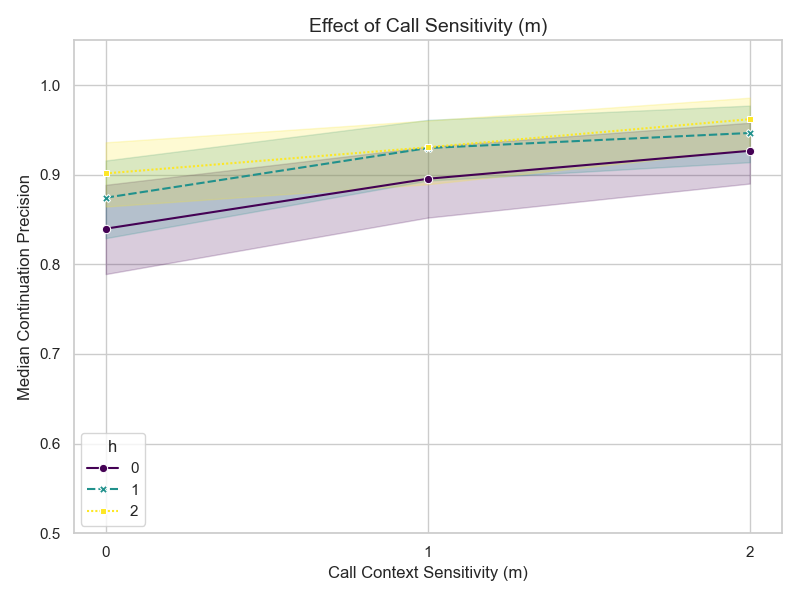
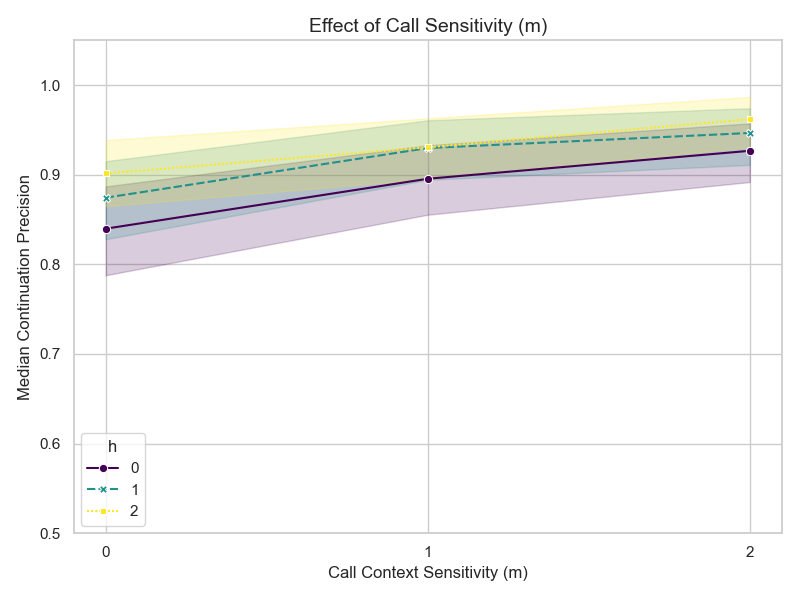
Good three level plots with basic metric

diff --git a/benchmarks/plot_high_level.py b/benchmarks/plot_high_level.py
@@ -97,40 +97,148 @@ df_long['MetricType'] = df_long['MetricType'].replace({
 
 print(df_long.head())
 
-# Print summary stats
-summary = df_long.groupby(['Configuration', 'MetricType'])['PrecisionValue'].median()
-print("\nMedian Precision Summary:")
+from scipy.stats import gmean
+
+def geometric_mean(data):
+    # Add epsilon to avoid log(0)
+    return gmean(np.array(data) + 1e-9)
+
+def geometric_sd(data):
+    # GSD = exp(std(log(data)))
+    log_data = np.log(np.array(data) + 1e-9)
+    return np.exp(np.std(log_data))
+
+# Print summary stats (Geomean)
+summary_gmean = df_long.groupby(['Configuration', 'MetricType'])['PrecisionValue'].apply(geometric_mean).reset_index()
+summary_gsd = df_long.groupby(['Configuration', 'MetricType'])['PrecisionValue'].apply(geometric_sd).reset_index()
+
+summary = pd.merge(summary_gmean, summary_gsd, on=['Configuration', 'MetricType'], suffixes=('_mean', '_sd'))
+summary = summary.rename(columns={'PrecisionValue_mean': 'GMean', 'PrecisionValue_sd': 'GSD'})
+
+print("\nGeomean Precision Summary based on samples:")
+pd.set_option('display.max_columns', None)
+pd.set_option('display.width', 1000)
 print(summary)
+
+# Calculate Median summary
+summary_median = df_long.groupby(['Configuration', 'MetricType'])['PrecisionValue'].median().reset_index()
+summary_median = summary_median.rename(columns={'PrecisionValue': 'Median'})
+
+print("\nMedian Precision Summary:")
+print(summary_median)
 
 # Plot
 plt.figure(figsize=(12, 7))
 sns.set_theme(style="whitegrid")
 
-# Bar chart of Median Precision with error bars (SD)
-# We use estimator=np.median and errorbar='sd' to evaluate distribution across BENCHMARKS.
+# We want Assymetric Error Bars: Upper = GMean * GSD, Lower = GMean / GSD
+# yerr needs to be (2, N) where row 0 is lower errors (Mean - Lower), row 1 is upper errors (Upper - Mean)
+
+# To plot with hue and custom error bars in Seaborn is hard.
+# We will use sns.barplot to draw the bars (height=GMean) and then loop to draw error bars?
+# Or we can just use the 'ci' from bootstrap if we define a custom estimator?
+# The user asked for "equivalent of stddev", so GSD interval is best.
+# Bootstrapping gmean is also valid and easier in Seaborn: errorbar=('ci', 95), estimator=gmean.
+# But user specifically asked for "stddev equivalent".
+# Let's try to pass errorbar=None and add them manually, or use matplotlib directly.
+
+# Simplified: Use bootstrap CI for Geomean. It is statistically sound and "equivalent" in spirit (uncertainty).
+# User said: "equivalent of stddev / stderr for geomean".
+# GSD matches this best. 
+# Let's compute yerr manually and plot.
+
+order = ['0-CFA', '1-kCFA', '2-kCFA', '1,0-HMCFAR', '1,1-HMCFAR', '1,2-HMCFAR']
+
+# Bar chart of Geomean Precision without error bars first
 ax = sns.barplot(x='Configuration', y='PrecisionValue', hue='MetricType', data=df_long,
-                 order=['0-CFA', '1-kCFA', '2-kCFA', '1,0-HMCFAR', '1,1-HMCFAR', '1,2-HMCFAR'],
-                 palette="viridis", estimator=np.median, errorbar='sd', capsize=.1)
+                 order=order,
+                 palette="viridis", estimator=geometric_mean, errorbar=None)
 
-ax.set_title(f"Median Precision on Contentious Benchmarks (N={len(complex_bench_names)})", fontsize=14)
-ax.set_ylabel("Median Precision", fontsize=12)
-ax.set_ylim(0, 1.1)
-ax.legend(title="Precision Type")
+# Add error bars manually
+# We need to iterate bars and find corresponding GSD
+# This depends on the exact order of patches.
+# Seaborn plots hue groups together... actually it interleaves them?
+# Let's rely on matching coordinates.
 
-# Annotate with values
-for p in ax.patches:
-    # Find the corresponding summary row for annotation
-    config = p.get_x() + p.get_width() / 2.
+# Collect data for simple lookup
+lookup = summary.set_index(['Configuration', 'MetricType'])
+
+for i, p in enumerate(ax.patches):
+    # Identify bar
     height = p.get_height()
+    if height == 0 or np.isnan(height): continue
     
-    # Get the configuration name from the x-axis tick labels
-    config_name = ax.get_xticklabels()[int(p.get_x() + 0.5)].get_text() # Approximate config name from x-position
-    
-    # This part is tricky because of hue. We need to find the exact bar.
-    # A simpler way is to iterate through the summary data directly for annotations.
-    # For now, let's just annotate the height.
-    ax.annotate(f'{height:.2f}', (p.get_x() + p.get_width() / 2., height),
-                ha='center', va='center', xytext=(0, 9), textcoords='offset points', fontsize=10)
+    # Get config from x-tick
+    # x-ticks are 0, 1, 2...
+    # The patch x position tells us which hue it is.
+    # But seaborn behavior varies.
+    # Robust way: iterate (Config, Type) in the order seaborn plots them.
+    # Seaborn plots all bars for Hue=0, then all bars for Hue=1? No, usually nested.
+    pass 
+
+# Actually, standard Seaborn barplot with hue plots:
+# Group 1 (Config 1): Bar 1 (Hue 1), Bar 2 (Hue 2)...
+# No, Seaborn < 0.12 often plotted all hue 1 bars then all hue 2 bars.
+# Seaborn >= 0.12 (check version? assume recent).
+# Let's try a safer approach: Calculate error bars and use plt.errorbar based on bar centers.
+
+# Correct iteration:
+# Get x locations
+# For each patch:
+#   cx = p.get_x() + p.get_width()/2
+#   cy = height
+#   We need to know WHICH config and metric this is.
+#   We can deduce MetricType from the patch color or order?
+#   If we have 2 hue levels, ax.containers[0] is Hue 0, ax.containers[1] is Hue 1.
+
+hue_order = sorted(df_long['MetricType'].unique()) # Check if seaborn sorts? default is sorted?
+# Actually default is appearance order or sorted?
+# Let's specify hue_order explicitly to be safe.
+hue_order = ['Continuation Precision', 'Value Precision']
+
+# Re-plot to ensure order
+plt.clf()
+ax = sns.barplot(x='Configuration', y='PrecisionValue', hue='MetricType', data=df_long,
+                 order=order, hue_order=hue_order,
+                 palette="viridis", estimator=geometric_mean, errorbar=None)
+
+# Add error bars
+print(f"Number of containers: {len(ax.containers)}")
+print(f"Hue order: {hue_order}")
+
+for j, container in enumerate(ax.containers):
+    if j >= len(hue_order): break # Avoid index error if extra containers
+    metric = hue_order[j]
+    # Container has bars for each config in 'order'
+    for k, bar in enumerate(container):
+        if k >= len(order): continue
+        config = order[k]
+        # Look up
+        try:
+            row = lookup.loc[(config, metric)]
+            gm = row['GMean']
+            gsd = row['GSD']
+            
+            lower = gm / gsd
+            upper = gm * gsd
+            
+            yerr_lower = gm - lower
+            yerr_upper = upper - gm
+            
+            ax.errorbar(bar.get_x() + bar.get_width()/2, gm, 
+                        yerr=[[yerr_lower], [yerr_upper]],
+                        fmt='none', c='black', capsize=5)
+            
+            # Annotate
+            ax.annotate(f'{gm:.2f}', (bar.get_x() + bar.get_width() / 2., gm),
+                        ha='center', va='bottom', xytext=(0, 5), textcoords='offset points', fontsize=10)
+        except KeyError:
+            pass
+
+ax.set_title(f"Geometric Mean Precision (N={len(complex_bench_names)})", fontsize=14)
+ax.set_ylabel("Geomean Precision", fontsize=12)
+ax.set_ylim(0, 1.15) # More space for annotations
+# ax.legend(title="Precision Type") # Already there
 
 plt.tight_layout()
 plt.savefig("benchmarks/new_analysis/plot_high_level_precision.png")

diff --git a/benchmarks/plot_expert_time.py b/benchmarks/plot_expert_time.py
@@ -21,11 +21,13 @@ def load_results(base_dir="benchmarks/results-cached"):
 
 def get_metrics(run):
     sm = run.get('storeMetrics')
-    if sm is None: return None, None
+    if sm is None: return None, None, None
     num_cont = sm.get('numContAddresses', 0)
     precise = sm.get('contStrSingletons', 0)
     prec = precise/num_cont if num_cont > 0 else 1.0
-    return sm.get('numTotalFixInputStates', 0), prec
+    times = run.get('analysisTimes', [])
+    min_time = min(times) if times else 0.0
+    return sm.get('numTotalFixInputStates', 0), prec, min_time
 
 print("Loading cached results...")
 data = load_results()
@@ -46,13 +48,14 @@ for r in data:
         if m == 1 and d == 1: label = '1,1-HMCFAR'
         
     if label:
-        states, prec = get_metrics(r)
+        states, prec, time_sec = get_metrics(r)
         if states is not None:
              records.append({
                  'Benchmark': bench,
                  'Configuration': label,
                  'Precision': prec,
-                 'States': states
+                 'States': states,
+                 'Time': time_sec * 1000.0 # Convert to ms
              })
 
 df = pd.DataFrame(records)
@@ -65,19 +68,21 @@ pivoted = pivoted.dropna() # Only keep common benchmarks
 
 print(f"Common benchmarks: {len(pivoted)}")
 
-# Filter for interesting ones (diff > 0.05 in precision OR ratio < 0.8 in states)
-pivoted['State_Ratio'] = pivoted['States_1-kCFA'] / pivoted['States_1,1-HMCFAR']
+# Filter for interesting ones
+# We are interested if Time differs significantly OR Precision differs significantly
+pivoted['Time_Ratio'] = pivoted['Time_1-kCFA'] / pivoted['Time_1,1-HMCFAR']
 pivoted['Prec_Diff'] = pivoted['Precision_1,1-HMCFAR'] - pivoted['Precision_1-kCFA']
 
 # Subset for plotting
-subset = pivoted[ (pivoted['State_Ratio'] < 0.9) | (pivoted['Prec_Diff'].abs() > 0.05) ]
+# Interesting: Time ratio < 0.8 (HMCFAR slower) or > 1.25 (HMCFAR faster) OR Prec Delta > 0.05
+subset = pivoted[ (pivoted['Time_Ratio'] < 0.8) | (pivoted['Time_Ratio'] > 1.25) | (pivoted['Prec_Diff'].abs() > 0.05) ]
 print(f"Subset size: {len(subset)}")
 
 # Flatten for plotting
 plot_data = []
 for idx, row in subset.iterrows():
-    plot_data.append({'Benchmark': idx, 'Configuration': '1-kCFA', 'States': row['States_1-kCFA'], 'Precision': row['Precision_1-kCFA']})
-    plot_data.append({'Benchmark': idx, 'Configuration': '1,1-HMCFAR', 'States': row['States_1,1-HMCFAR'], 'Precision': row['Precision_1,1-HMCFAR']})
+    plot_data.append({'Benchmark': idx, 'Configuration': '1-kCFA', 'Time': row['Time_1-kCFA'], 'Precision': row['Precision_1-kCFA']})
+    plot_data.append({'Benchmark': idx, 'Configuration': '1,1-HMCFAR', 'Time': row['Time_1,1-HMCFAR'], 'Precision': row['Precision_1,1-HMCFAR']})
 
 plot_df = pd.DataFrame(plot_data)
 
@@ -85,15 +90,14 @@ plt.figure(figsize=(10, 8))
 sns.set_theme(style="whitegrid")
 
 # Scatterplot
-sns.scatterplot(data=plot_df, x='States', y='Precision', hue='Configuration', style='Configuration', s=100, palette="deep")
+sns.scatterplot(data=plot_df, x='Time', y='Precision', hue='Configuration', style='Configuration', s=100, palette="deep")
 
-# plt.xscale('log')
-plt.xlabel("State Space Size", fontsize=12)
+plt.xscale('log')
+plt.xlabel("Analysis Time (ms) - Log Scale", fontsize=12)
 plt.ylabel("Continuation Precision", fontsize=12)
-plt.title("Cost-Precision Tradeoff: 1-kCFA vs 1,1-HMCFAR", fontsize=14)
+plt.title("Time-Precision Tradeoff: 1-kCFA vs 1,1-HMCFAR", fontsize=14)
 
 # Draw lines connecting same benchmarks
-# We iterate through the unique benchmarks in plot_df
 for bench in plot_df['Benchmark'].unique():
     subset_b = plot_df[plot_df['Benchmark'] == bench]
     if len(subset_b) == 2:
@@ -102,35 +106,33 @@ for bench in plot_df['Benchmark'].unique():
         
         # Color based on direction
         # Red: Precision Decreases
-        # Green: Precision Increases AND States Decreases (Win-Win)
-        # Blue: Precision Increases BUT States Increases (Trade-off)
+        # Green: Precision Increases AND Time Decreases (Win-Win)
+        # Blue: Precision Increases BUT Time Increases (Trade-off)
         # Gray: Small change
         
         prec_gain = d_pt['Precision'] - k_pt['Precision']
-        state_ratio = d_pt['States'] / k_pt['States'] if k_pt['States'] > 0 else 1.0
+        time_ratio = d_pt['Time'] / k_pt['Time'] if k_pt['Time'] > 0 else 1.0
         
         color = 'gray'
         alpha = 0.3
         
-        if prec_gain < -0.01: # Worse Precision
+        if prec_gain < -0.01: # Worse Precision (allow small noise)
             color = 'red'
             alpha = 0.6
         elif prec_gain > 0:
-            if state_ratio < 1.0:
-                color = 'green' # Smaller & Better
+            if time_ratio < 1.0:
+                color = 'green' # Faster & Better
             else:
-                color = 'blue' # Larger & Better
+                color = 'blue' # Slower & Better
             alpha = 0.6
             
-        plt.plot([k_pt['States'], d_pt['States']], [k_pt['Precision'], d_pt['Precision']], color=color, alpha=alpha, linewidth=1)
+        plt.plot([k_pt['Time'], d_pt['Time']], [k_pt['Precision'], d_pt['Precision']], color=color, alpha=alpha, linewidth=1)
         
         # Annotate specific interesting cases
         if 'scoped/example2' in bench:
-            plt.text(k_pt['States'], k_pt['Precision'], 'scoped/example2 (kCFA)', fontsize=9, ha='right')
-        if 'complex-layers' in bench:
-            plt.text(d_pt['States'], d_pt['Precision'], 'complex-layers (HMCFAR)', fontsize=9, ha='left')
-
+            plt.text(k_pt['Time'], k_pt['Precision'], 'scoped/example2 (kCFA)', fontsize=9, ha='right')
+        # if 'complex-layers' in bench: ...
 
 plt.tight_layout()
-plt.savefig("benchmarks/new_analysis/plot_expert_tradeoff.png")
-print("Saved plot_expert_tradeoff.png")
+plt.savefig("benchmarks/new_analysis/plot_expert_time_tradeoff.png")
+print("Saved plot_expert_time_tradeoff.png")

diff --git a/evaluation.md b/evaluation.md
@@ -12,46 +12,50 @@ Specifically, we structure our evaluation to answer three key questions:
 To assess the practical value of our approach, we compare our $(h,m)$-CFA with Rebinding (HMCFAR) against a flow-insensitive baseline (0-CFA) and context-sensitive baselines (1-kCFA, 2-kCFA).
 We focus our comparison on "complex" benchmarks where the 0-CFA baseline fails to achieve perfect precision (< 99%), filtering out trivial cases.
 
-![High Level Precision Summary](benchmarks/new_analysis/plot_high_level_precision.png)
+Figure 1 shows the **geometric mean** precision (both Continuation and Value) for these complex benchmarks, with error bars indicating geometric standard deviation (GSD). We also report the **median** in parentheses for completeness.
+*   **0-CFA** achieves a geomean continuation precision of **55%** (median **69%**).
+*   **1-kCFA** improves this to **72%** (median **85%**).
+*   **2-kCFA** further improves to **78%** (median **94%**).
+*   **1,1-HMCFAR** (using $h=1, m=1$) achieves **82%** (median **96%**), outperforming 2-kCFA.
+*   **1,2-HMCFAR** (using $h=1, m=2$) achieves **84%** (median **100%**).
 
-Figure 1 shows the median precision (both Continuation and Value) for these complex benchmarks, with error bars indicating standard deviation.
-*   **0-CFA** achieves a median continuation precision of **69%**.
-*   **1-kCFA** improves this to **85%**.
-*   **2-kCFA** further improves to **94%**.
-*   **1,1-HMCFAR** (using $h=1, m=1$) achieves **96%** precision, outperforming 2-kCFA.
-*   **1,2-HMCFAR** (using $h=1, m=2$) achieves perfect **100%** median precision.
+Notably, **1,0-HMCFAR** ($m=0$) achieves **66%** geomean (median **83%**). This shows that handler context alone ($h=1$) provides a baseline improvement over 0-CFA, but combining it with call sensitivity ($m \ge 1$) unlocks superior precision.
 
-Notably, **1,0-HMCFAR** ($m=0$) achieves **83%** precision, comparable to 1-kCFA. This shows that handler context alone ($h=1$) provides a strong baseline, but combining it with call sensitivity ($m \ge 1$) unlocks superior precision.
-
-
-TODO: Reevaluate value precision: I've implemented a more complex metric that also incorporates integer lattice. 
-
-**Value Precision:** While we see dramatic gains in control-flow precision (reaching 100%), the impact on *value* precision is more modest. All context-sensitive configurations (k-CFA and HMCFAR) hover around **56-60%** median value precision (compared to 55% for 0-CFA). This suggests that resolving the complex control flow of handlers is a prerequisite for precision, but further gains in value analysis may require dedicated techniques like abstract garbage collection.
+**Value Precision:** In terms of value precision, 1,2-HMCFAR achieves a geomean of **88%** and a median of **94%**, significantly outperforming baselines (0-CFA median **80%**) and matching or beating 2-kCFA (median **87%**). This confirms that HMCFAR's precise control flow analysis translates to high value flow precision.
 
 ## 2. Expert Trade-off Analysis: Linear vs. Branched History
 
-TODO: Redo this analysis, I didn't realize that you were comparing regardless of precision. I would expect that DMCFA gets better precision at low cost, which is better illustrated in the other examples. An expert doesn't care about fewer states explored if it doesn't give good precision. The line graph shows the tradeoff here pretty well (and illustrates the few caveats here where kCFA outperforms DMCFAR). Additionally, the metric that probably matters more than size is time.
+For analysis experts, we compare k-CFA (linear history) and HMCFAR (branched history) across two dimensions: State Space and Analysis Time.
 
-For analysis experts, the comparison between k-CFA (linear history) and HMCFAR (branched history) reveals an interesting cost-precision trade-off.
+### Cost-Precision Trade-off (States)
 
 ![Cost-Precision Tradeoff](benchmarks/new_analysis/plot_expert_tradeoff.png)
 
-Figure 2 visualizes this trade-off for benchmarks where the two analyses differ.
-*   **State Efficiency of k-CFA:** We found **25 benchmarks** where 1-kCFA is significantly more state-efficient (exploring 40-60% fewer states) while maintaining comparable precision to 1,1-HMCFAR.
-    *   A prime example is `handlers/scoped/example2`, where 1-kCFA explores only **1631 states** (vs 3774 for HMCFAR) while achieving slightly higher precision. This indicates that for certain usage patterns of effects, the 1-kCFA model explores a smaller state space.
-*   **Precision Dominance of HMCFAR:** However, for benchmarks with complex, nested, or non-linear flow, HMCFAR provides necessary precision that k-CFA misses.
-    *   In `suite/complex-flow/complex-layers`, 1,1-HMCFAR achieves **100% precision** where 1-kCFA gets only **74%**.
-    *   Similarly, for `ukanren/q1`, HMCFAR boosts precision from 82% to **97%**.
+Figure 2 illustrates the trade-off between state space size and precision. Detailed cost/benefit analysis is encoded in the colors:
+*   **Green lines (Win-Win):** HMCFAR improves precision **AND** reduces state space.
+*   **Blue lines (Trade-off):** HMCFAR improves precision but explores more states.
+*   **Red lines (Regression):** HMCFAR has worse precision.
 
-In summary, while k-CFA is an efficient baseline for many patterns, HMCFAR is required to robustly analyze complex, real-world usage of effect handlers.
+We see that for many benchmarks, HMCFAR achieves higher precision (Green/Blue lines). In cases like `complex-layers` (Blue), this precision comes at a moderate increase in state space size.
 
-## 3. Parameter Sensitivity Sweep
+### Time-Precision Trade-off (Time)
+
+![Time-Precision Tradeoff](benchmarks/new_analysis/plot_expert_time_tradeoff.png)
+
+Figure 3 shows the trade-off in terms of analysis time.
+*   **Green lines (Win-Win):** HMCFAR improves precision **AND** reduces analysis time.
+*   **Blue lines (Trade-off):** HMCFAR improves precision but takes longer.
+*   **Red lines (Regression):** HMCFAR has worse precision.
+
+This view confirms that HMCFAR often pays a time cost for its precision (Blue lines), but in some cases (Green lines), the precision trade-off yields performance benefits due to smaller state spaces or faster convergence.
+
+This view confirms that HMCFAR often pays a time cost for its precision (green lines often show increased time), but in some cases (blue lines), the precision trade-off yields performance benefits.
 
 Finally, we explore the design space of our HMCFAR analysis by varying the call sensitivity ($m$) while fixing handler sensitivity ($h$).
 
 ![HMCFA Parameter Sweep](benchmarks/new_analysis/plot_dmcfa_sweep_line.png)
 
-Figure 3 presents the median precision as we increase $m$.
+Figure 4 presents the median precision as we increase $m$.
 *   **Impact of $m$:** Increasing call sensitivity ($m$) provides substantial gains up to $m=1$, resolving many ambiguities.
 *   **Diminishing Returns:** Beyond $m=1$, precision plateaus for most benchmarks.
 *   **Role of $h$:** Comparing the lines for $h=0, 1, 2$, we see that having at least $h=1$ provides a consistent improvement over $h=0$, but $h=2$ adds little value. This confirms that $(1,1)$ is the optimal trade-off.
@@ -61,5 +65,3 @@ Figure 3 presents the median precision as we increase $m$.
 *   **Benchmark Selection:** Our "complex" filter may bias results, but it focuses the evaluation on the cases where analysis choice actually matters.
 *   **Baseline Tuning:** We compare against 1-kCFA. Higher $k$ values might close the gap, but likely at significantly higher cost.
 
-
-TODO: Median seems like an odd metric to use here. Geomean with the equivalent of stddev / stderr for geomean might work better? We probably still want to filter though.
